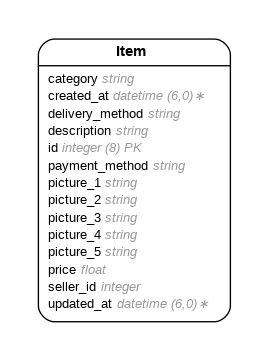
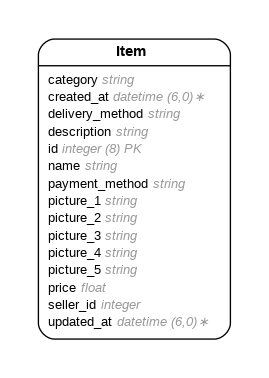
home page listing

Changed region(s): [[0.119, 0.0914, 0.8625, 0.9141], [0.8327, 0.8532, 0.8625, 0.8837]]

diff --git a/db/schema.rb b/db/schema.rb
@@ -10,7 +10,7 @@
 #
 # It's strongly recommended that you check this file into your version control system.
 
-ActiveRecord::Schema[7.1].define(version: 2025_05_19_004610) do
+ActiveRecord::Schema[7.1].define(version: 2025_05_19_011259) do
   # These are extensions that must be enabled in order to support this database
   enable_extension "plpgsql"
 
@@ -28,6 +28,7 @@ ActiveRecord::Schema[7.1].define(version: 2025_05_19_004610) do
     t.string "delivery_method"
     t.datetime "created_at", null: false
     t.datetime "updated_at", null: false
+    t.string "name"
   end
 
 end

diff --git a/app/models/item.rb b/app/models/item.rb
@@ -6,6 +6,7 @@
 #  category        :string
 #  delivery_method :string
 #  description     :string
+#  name            :string
 #  payment_method  :string
 #  picture_1       :string
 #  picture_2       :string

diff --git a/db/migrate/20250519011259_add_name_to_item.rb b/db/migrate/20250519011259_add_name_to_item.rb
@@ -1,0 +1,5 @@
+class AddNameToItem < ActiveRecord::Migration[7.1]
+  def change
+    add_column :items, :name, :string
+  end
+end
